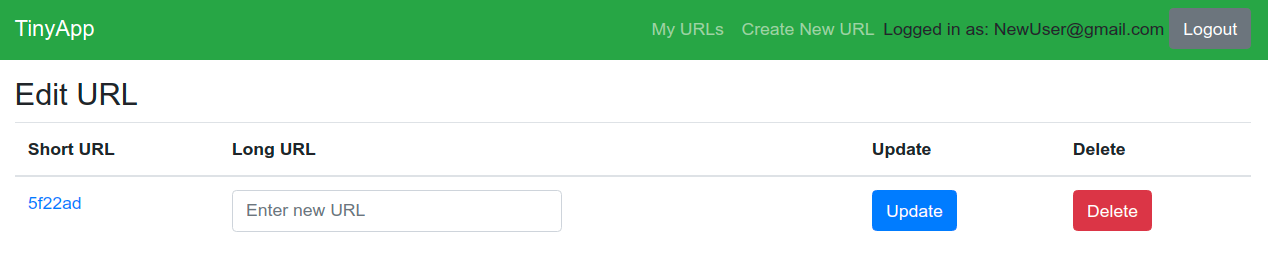
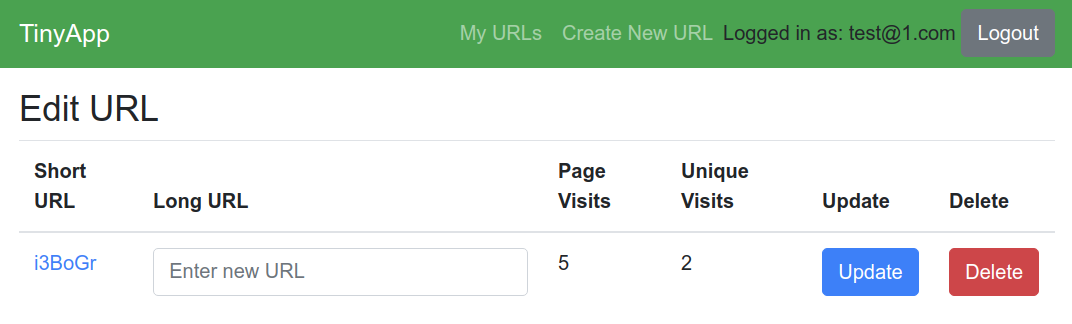
counters added

diff --git a/express_server.js b/express_server.js
@@ -1,6 +1,7 @@
 const express = require("express");
 const bcrypt = require('bcrypt');
 const bodyParser = require("body-parser");
+const methodOverride = require('method-override');
 const cookieSession = require('cookie-session');
 const { generateRandomString, getUserByEmail, usersURLs, verifyLoggedIn } = require('./helper.js');
 
@@ -9,6 +10,7 @@ const PORT = 8080;
 
 app.set("view engine", "ejs");
 app.use(bodyParser.urlencoded({ extended: true }));
+app.use(methodOverride('_method'));
 app.use(cookieSession({
   name: 'session',
   keys: ['key1', 'key2'],
@@ -17,8 +19,18 @@ app.use(cookieSession({
 
 
 const urlDb = {
-  b6UTxQ: { longURL: "https://www.tsn.ca", userId: "testId" },
-  i3BoGr: { longURL: "https://www.google.ca", userId: "testId" }
+  b6UTxQ: {
+    longURL: "https://www.tsn.ca",
+    userId: "testId",
+    totalVisits: 0,
+    uniqueVisits: []
+  },
+  i3BoGr: {
+    longURL: "https://www.google.ca",
+    userId: "testId",
+    totalVisits: 0,
+    uniqueVisits: []
+  }
 };
 
 const users = {
@@ -31,45 +43,71 @@ const users = {
 
 app.get("/", (req, res) => {
   const userId = req.session.userId;
-  verifyLoggedIn(userId, res);
 
-  res.redirect("/urls");
+  if (verifyLoggedIn(userId)) {
+    res.redirect("/urls");
+  } else {
+    res.redirect("/login");/// error?
+  };
+});
+
+app.get("/register", (req, res) => {
+  const userId = req.session.userId;
+  const user = users[userId];
+
+  const templateVars = { user };
+
+  if (verifyLoggedIn(userId)) {
+    res.redirect("/urls");
+  } else {
+    res.render("urls_register", templateVars);
+  };
+});
+
+app.get("/login", (req, res) => {
+  const userId = req.session.userId;
+  const user = users[userId];
+
+  const templateVars = { user };
+
+  if (verifyLoggedIn(userId)) {
+    res.redirect("/urls");
+  } else {
+    res.render('urls_login', templateVars);
+  };
 });
 
 app.get("/urls", (req, res) => {
   const userId = req.session.userId;
-  verifyLoggedIn(userId, res);
 
   const user = users[userId];
   const urls = usersURLs(userId, urlDb);
 
   const templateVars = { urls, user };
 
-  res.render("urls_index", templateVars);
+  if (verifyLoggedIn(userId)) {
+    res.render("urls_index", templateVars);
+  } else {
+    res.redirect("/login");/// error?
+  }
 });
 
 app.get("/urls/new", (req, res) => {
   const userId = req.session.userId;
-  verifyLoggedIn(userId, res);
 
   const user = users[userId];
 
   const templateVars = { user };
 
-  res.render("urls_new", templateVars);
-});
-
-app.get("/u/:shortURL", (req, res) => {
-
-  const shortURL = req.params.shortURL;
-  const longURL = urlDb[shortURL].longURL;
-
-  res.redirect(`${longURL}`);
+  if (verifyLoggedIn(userId)) {
+    res.render("urls_new", templateVars);
+  } else {
+    res.redirect("/login"); /// error?
+  }
 });
 
 app.get("/urls/:shortURL", (req, res) => {
   const userId = req.session.userId;
-  verifyLoggedIn(userId, res);
 
   const shortURL = req.params.shortURL;
   const matchResult = urlDb[shortURL];
@@ -82,28 +120,35 @@ app.get("/urls/:shortURL", (req, res) => {
 
   if (matchResult.userId === userId) {
     const longURL = urlDb[shortURL].longURL;
-    const templateVars = { user, shortURL, longURL };
+    const visitsData = urlDb[shortURL];
+
+    const templateVars = { user, shortURL, longURL, visitsData };
+
     return res.render("urls_show", templateVars);
   }
   res.status(403).send("You do not have permission to do this"); //turn into template
 });
 
-app.get("/register", (req, res) => {
+app.get("/u/:shortURL", (req, res) => {
+
+  const shortURL = req.params.shortURL;
+  const longURL = urlDb[shortURL].longURL;
+  urlDb[shortURL].totalVisits++;
+
   const userId = req.session.userId;
-  const user = users[userId];
 
-  const templateVars = { user };
+  if (users[userId] && !(urlDb[shortURL].uniqueVisits.includes(userId))) {
 
-  res.render("urls_register", templateVars);
-});
+    urlDb[shortURL].uniqueVisits.push(userId);
+  } else if (!(req.session) && !(urlDb[shortURL].uniqueVisits.includes(userId))) { // add a new guest cookie to session and sore in unique
+    const guestId = generateRandomString();
+    req.session.guestId = guestId;
+    urlDb[shortURL].uniqueVisits.push(guestId);
 
-app.get("/login", (req, res) => {
-  const userId = req.session.userId;
-  const user = users[userId];
-
-  const templateVars = { user };
-
-  res.render('urls_login', templateVars);
+  } else if (!(urlDb[shortURL].uniqueVisits.includes(req.session.guestId)) && !(urlDb[shortURL].uniqueVisits.includes(userId))) {
+    urlDb[shortURL].uniqueVisits.push(req.session.guestId);
+  }
+  res.redirect(`${longURL}`);
 });
 
 app.post("/register", (req, res) => {
@@ -137,7 +182,6 @@ app.post("/login", (req, res) => {
 
   if (!user) {
     return res.status(403).send('A user with that e-mail cannot be found');
-
   }
 
   const userId = user.id;
@@ -147,7 +191,6 @@ app.post("/login", (req, res) => {
 
   if (!bcrypt.compareSync(password, hash)) {
     return res.status(400).send('Incorrect password');
-
   }
 
   req.session.userId = userId;
@@ -163,13 +206,15 @@ app.post("/urls", (req, res) => {
   const userId = req.session.userId;
   const shortURL = generateRandomString();
   const longURL = req.body.longURL;
+  const totalVisits = 0;
+  const uniqueVisits = [];
 
-  urlDb[shortURL] = { longURL, userId };
+  urlDb[shortURL] = { longURL, userId, totalVisits, uniqueVisits }; // stretch total visits
 
   res.redirect(`/urls`);
 });
 
-app.post("/urls/:shortURL", (req, res) => {
+app.put("/urls/:shortURL", (req, res) => { // method-override post to put
   const longURL = req.body.longURL;
 
   urlDb[req.params.shortURL].longURL = longURL;
@@ -177,7 +222,7 @@ app.post("/urls/:shortURL", (req, res) => {
   res.redirect("/urls");
 });
 
-app.post("/urls/:shortURL/delete", (req, res) => { // deleting short url from URL Database
+app.delete("/urls/:shortURL", (req, res) => { // method-override post to delete
   delete urlDb[req.params.shortURL];
   res.redirect("/urls");
 });

diff --git a/helper.js b/helper.js
@@ -20,10 +20,12 @@ function usersURLs(id, urlDb) {
   return filteredURLs;
 }
 
-function verifyLoggedIn(userId, res) {
+function verifyLoggedIn(userId) {
   if (!userId) {
-    res.redirect('/login');
-    return;
+    return false;
+  }
+  if (userId) {
+    return true;
   }
 };
 
